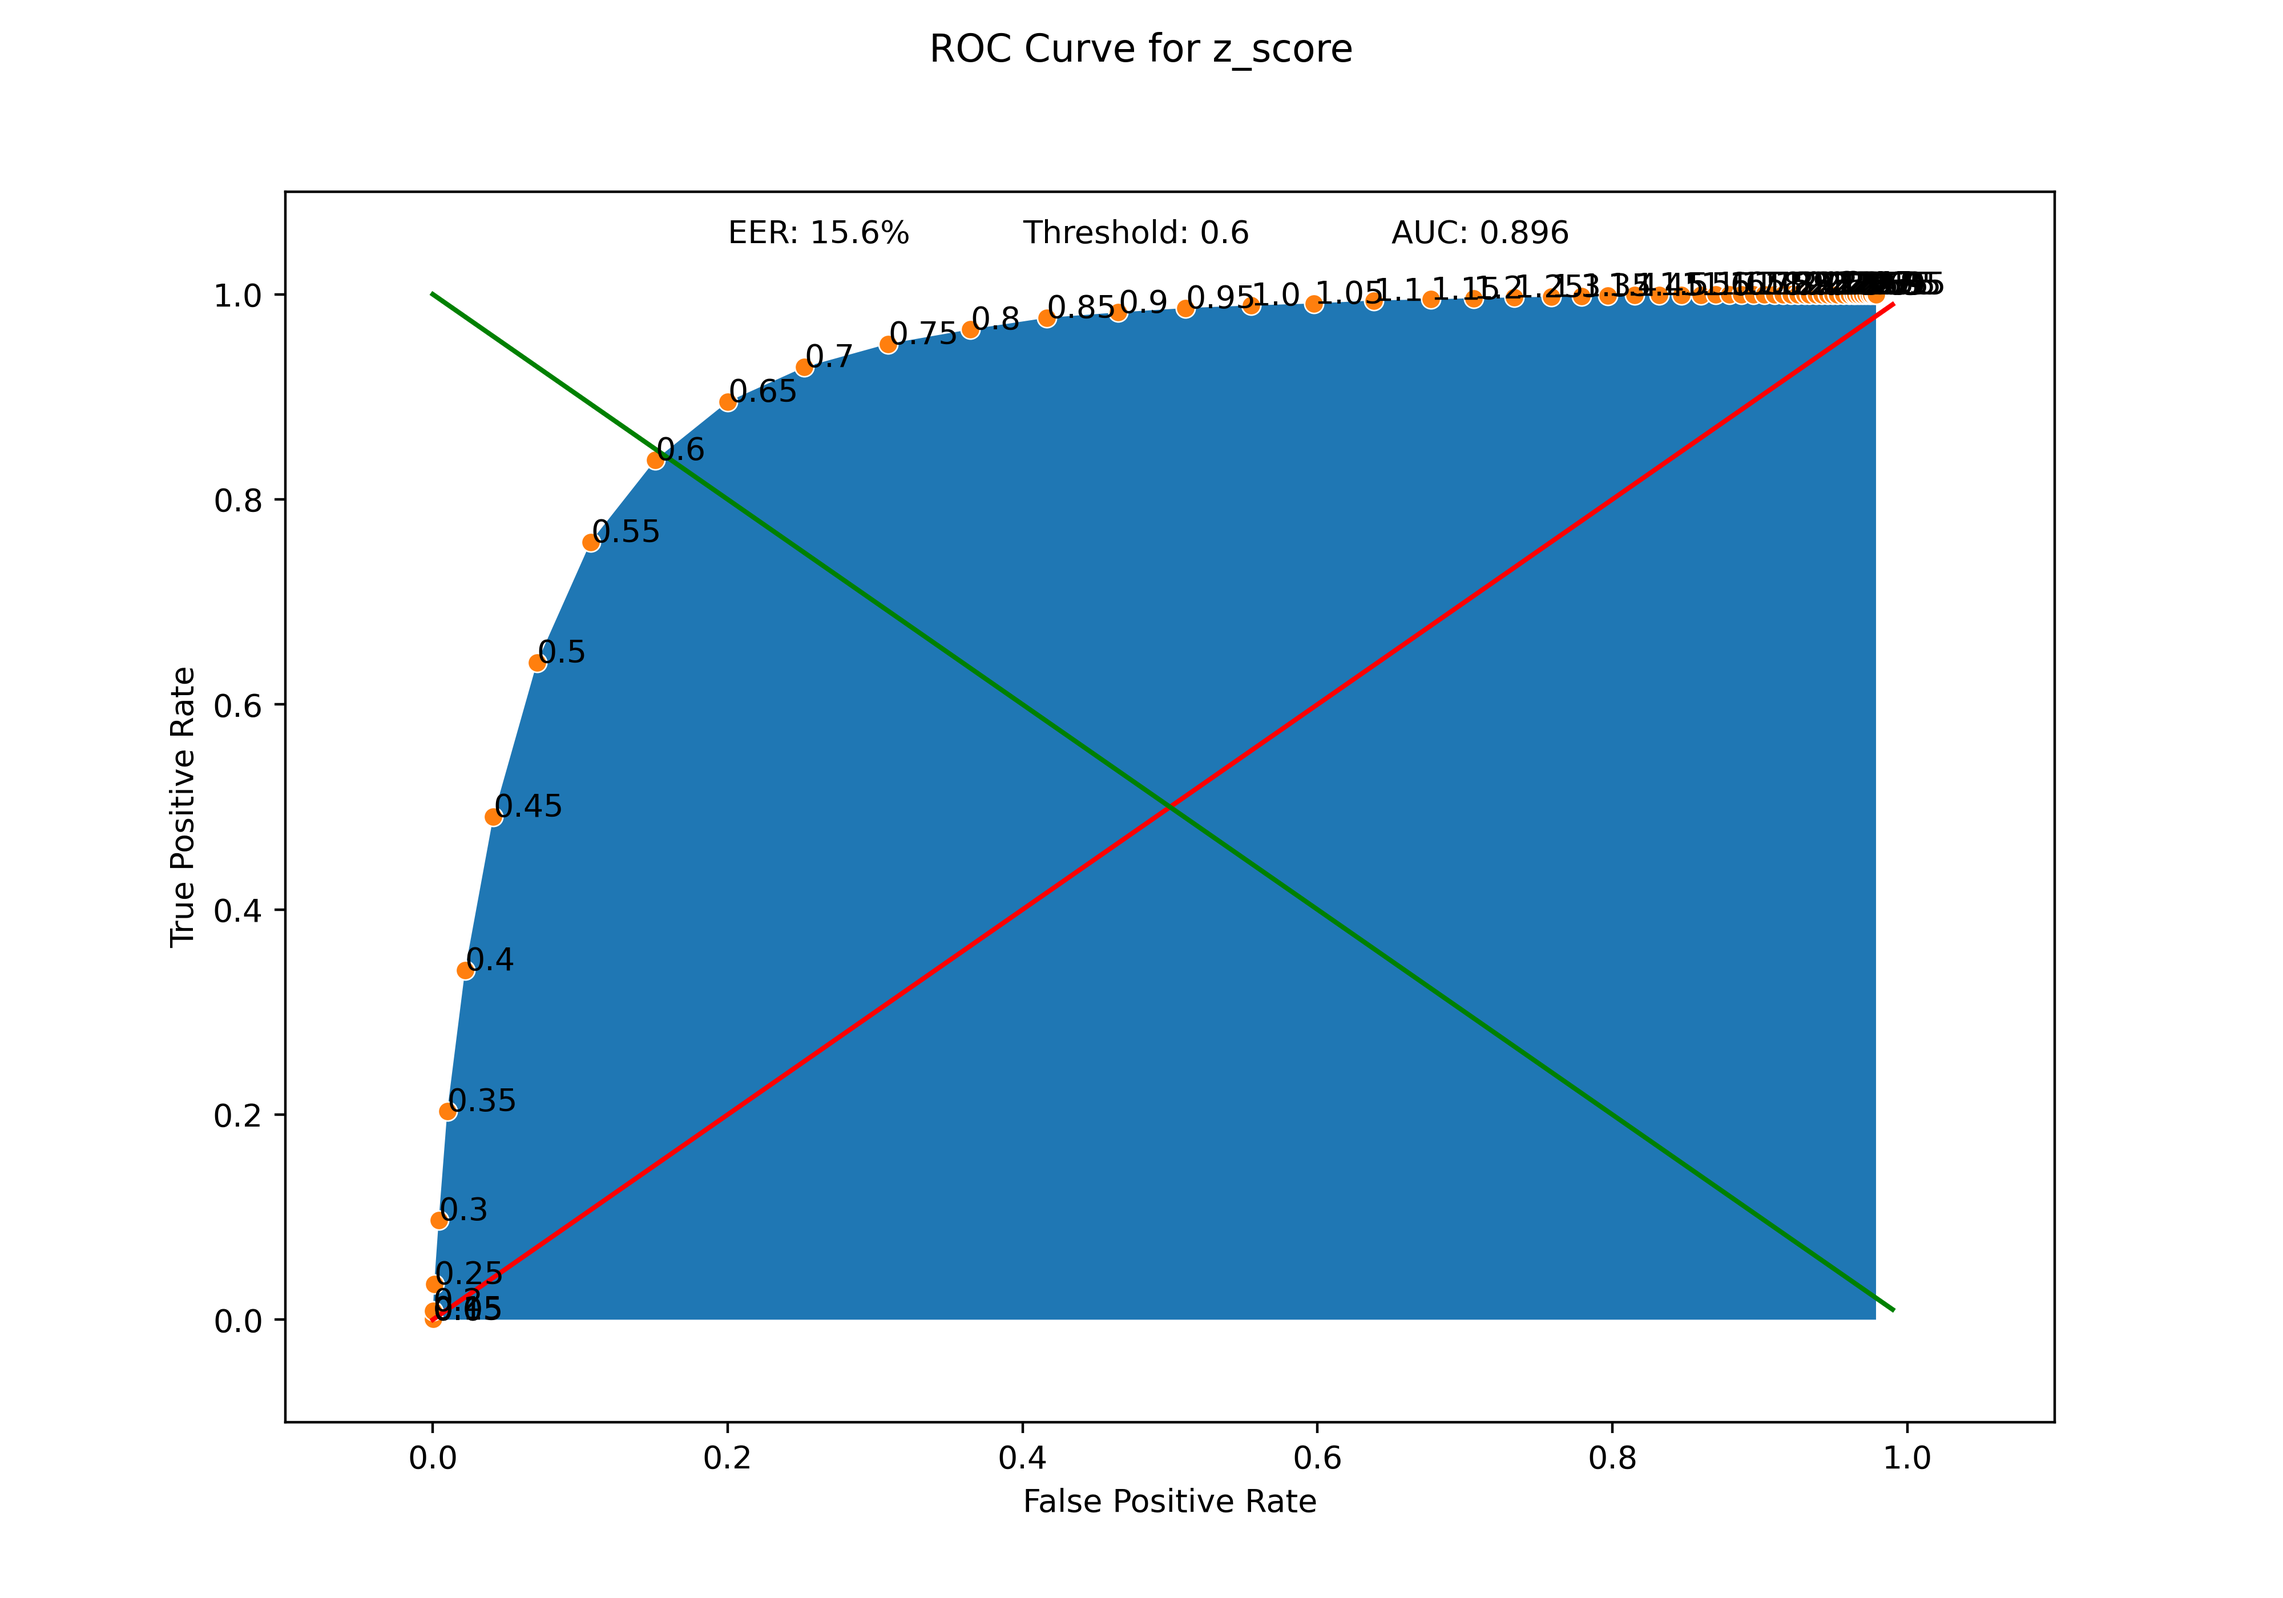
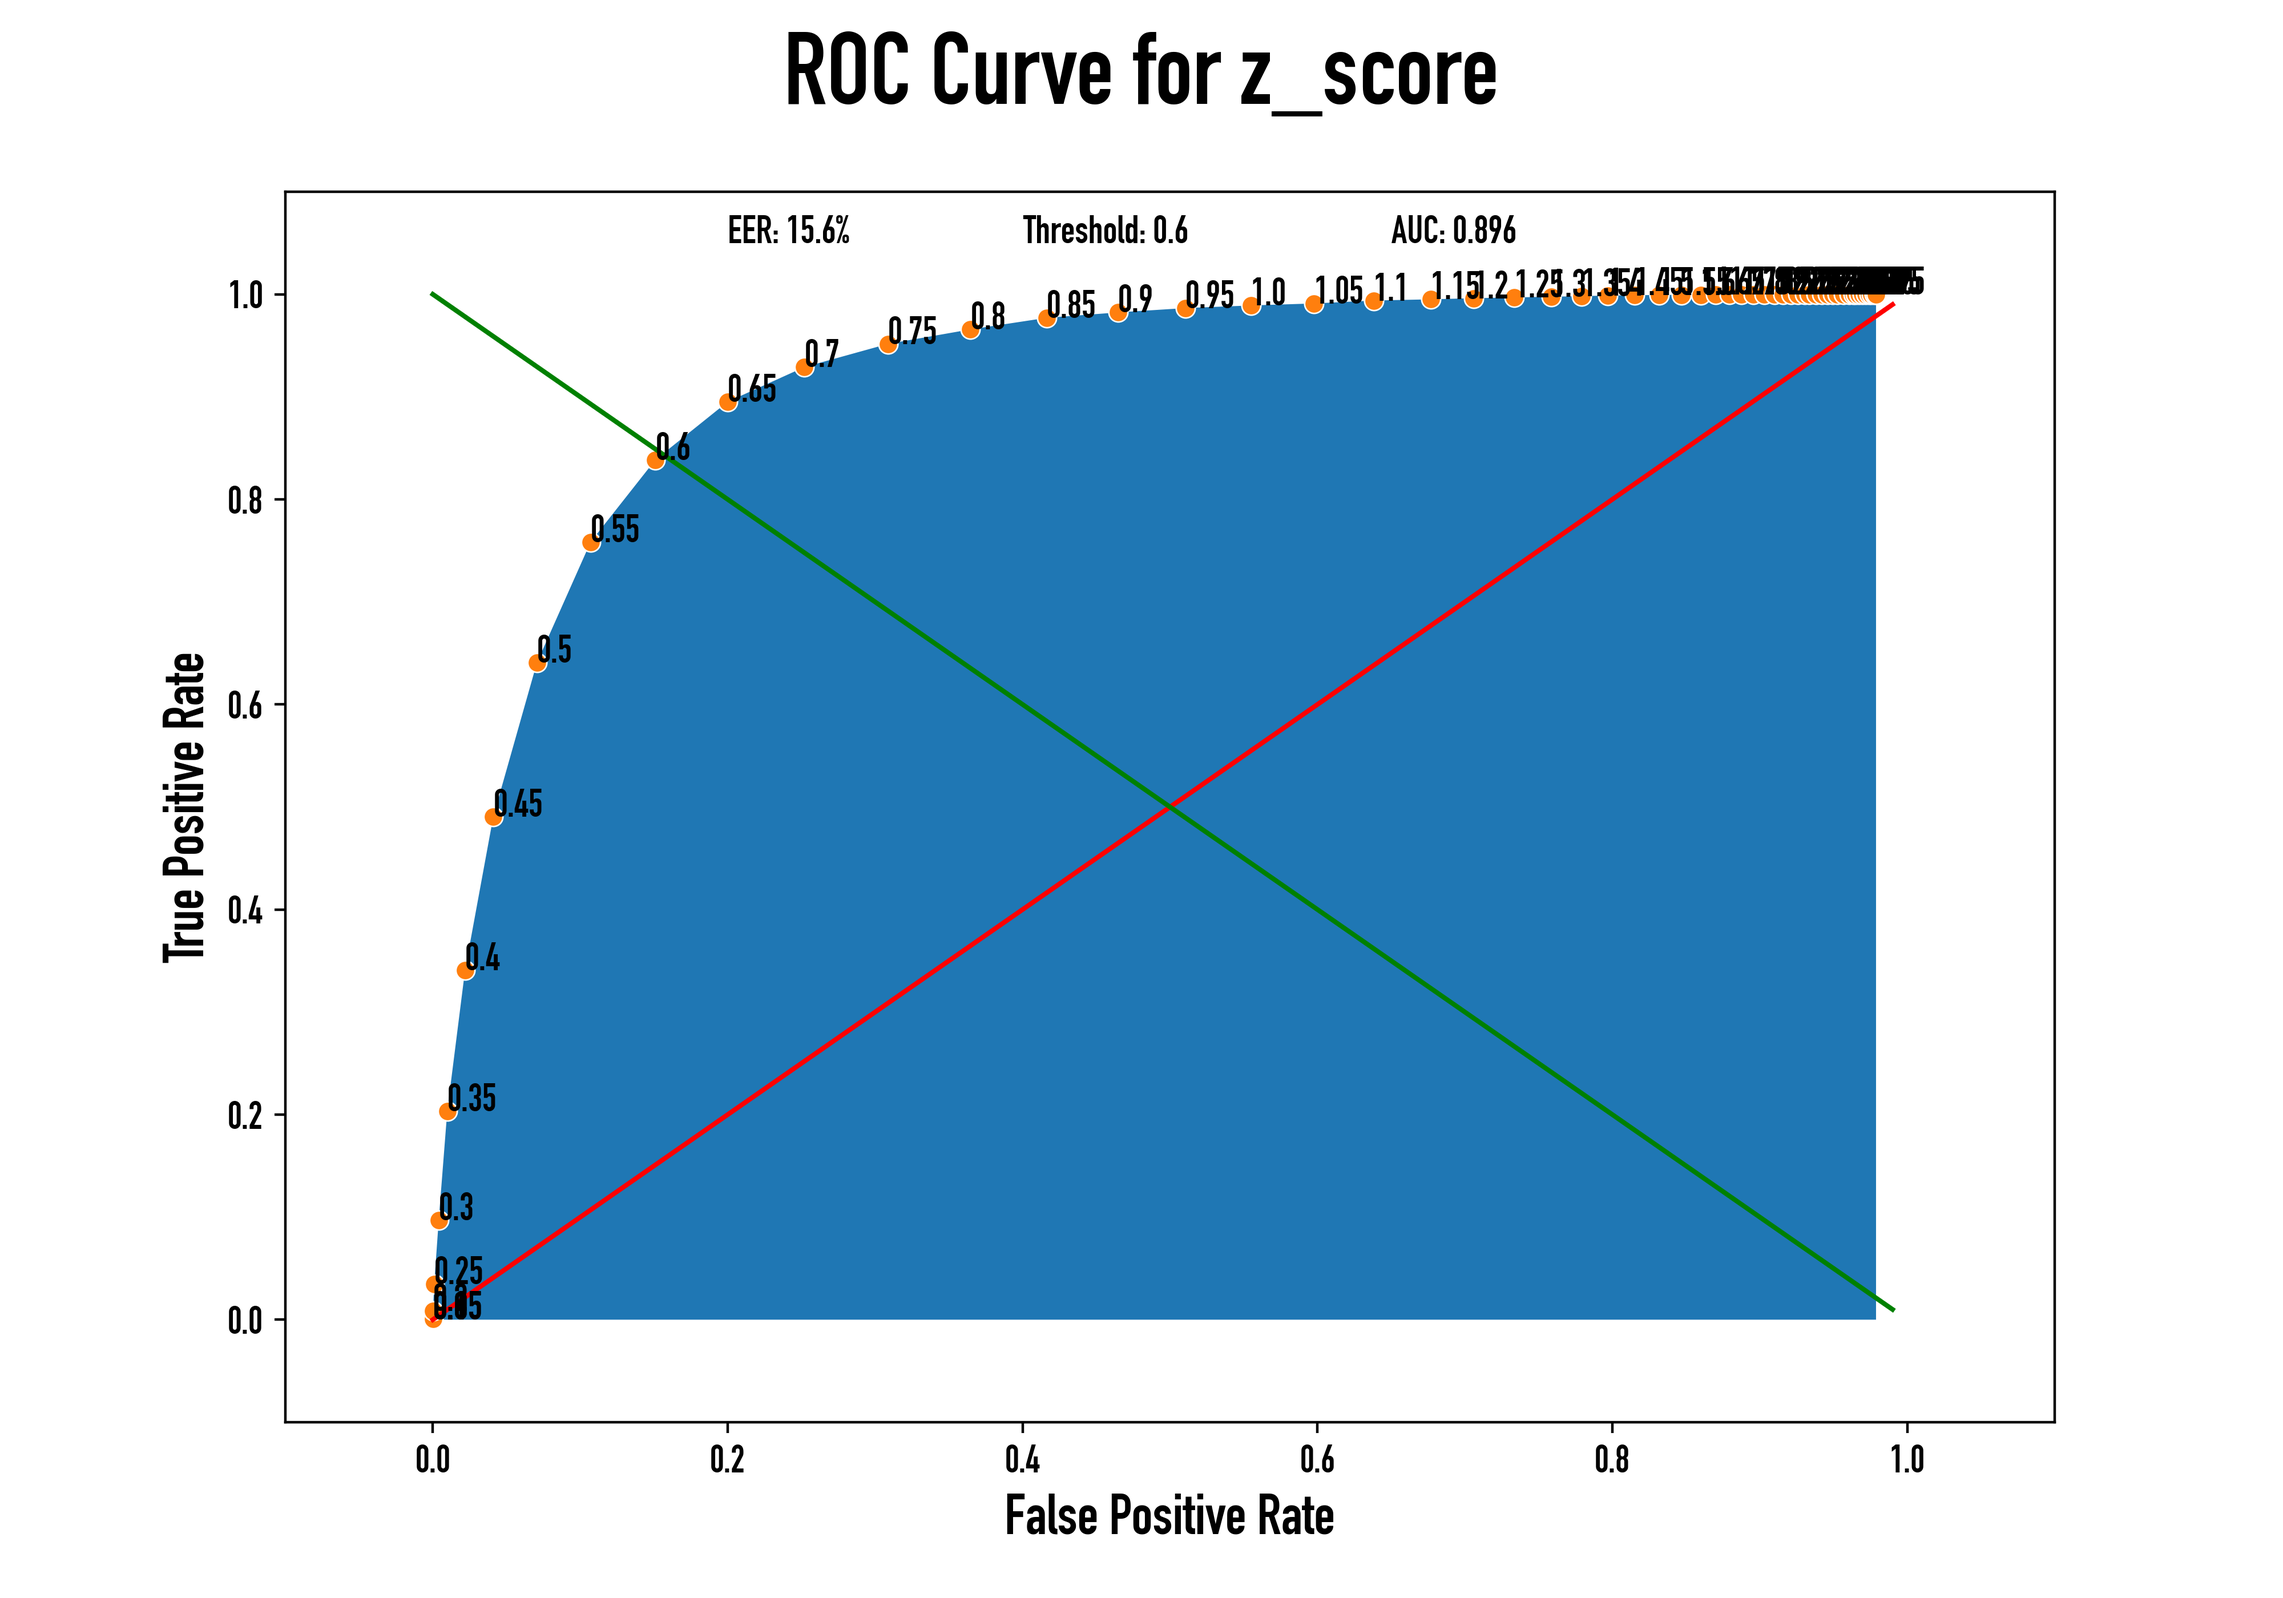
New plots

diff --git a/keystroke_dynamics/cmu_exploration/cmu_modelling.py b/keystroke_dynamics/cmu_exploration/cmu_modelling.py
@@ -104,6 +104,22 @@ def plot_ROC_curve(tpr, fpr, thresholds, performance, model_name, output_folder)
 
     pass
 
+def format_plots():
+    SMALL_SIZE = 12
+    MEDIUM_SIZE = 18
+    BIGGER_SIZE = 26
+    CHONK_SIZE = 32
+    font = {'family' : 'DIN Condensed',
+            'weight' : 'bold',
+            'size'   : SMALL_SIZE}
+    plt.rc('font', **font)
+    plt.rc('axes', titlesize=BIGGER_SIZE, labelsize=MEDIUM_SIZE, facecolor="xkcd:white")
+    plt.rc('xtick', labelsize=SMALL_SIZE)    # fontsize of the tick labels
+    plt.rc('ytick', labelsize=SMALL_SIZE)    # fontsize of the tick labels
+    plt.rc('legend', fontsize=SMALL_SIZE)    # legend fontsize
+    plt.rc('figure', titlesize=CHONK_SIZE, facecolor="xkcd:white", edgecolor="xkcd:black") #  powder blue
+
+    pass
 
 def calc_model_performance(tpr, fpr, thresholds):
     performance_dict = {}
@@ -129,6 +145,7 @@ def main(data_in, seed, t_start, t_stop, t_step, model, graph_output_folder):
     df = pd.read_csv(data_in, sep = ",", header = 0)
     # establish random number generator
     rng = np.random.default_rng(seed)
+    format_plots()
     X, y = process_input_data(df)
     threshold_lst = [round(i, 2) for i in np.arange(t_start, t_stop, t_step)]
     tpr_fpr_dict = cross_validate(X, threshold_lst, rng, model)
@@ -151,8 +168,6 @@ def main_wrapper():
     }
 
     main(**kwargs)
-
-
 
 if __name__ == "__main__":
     main_wrapper()
